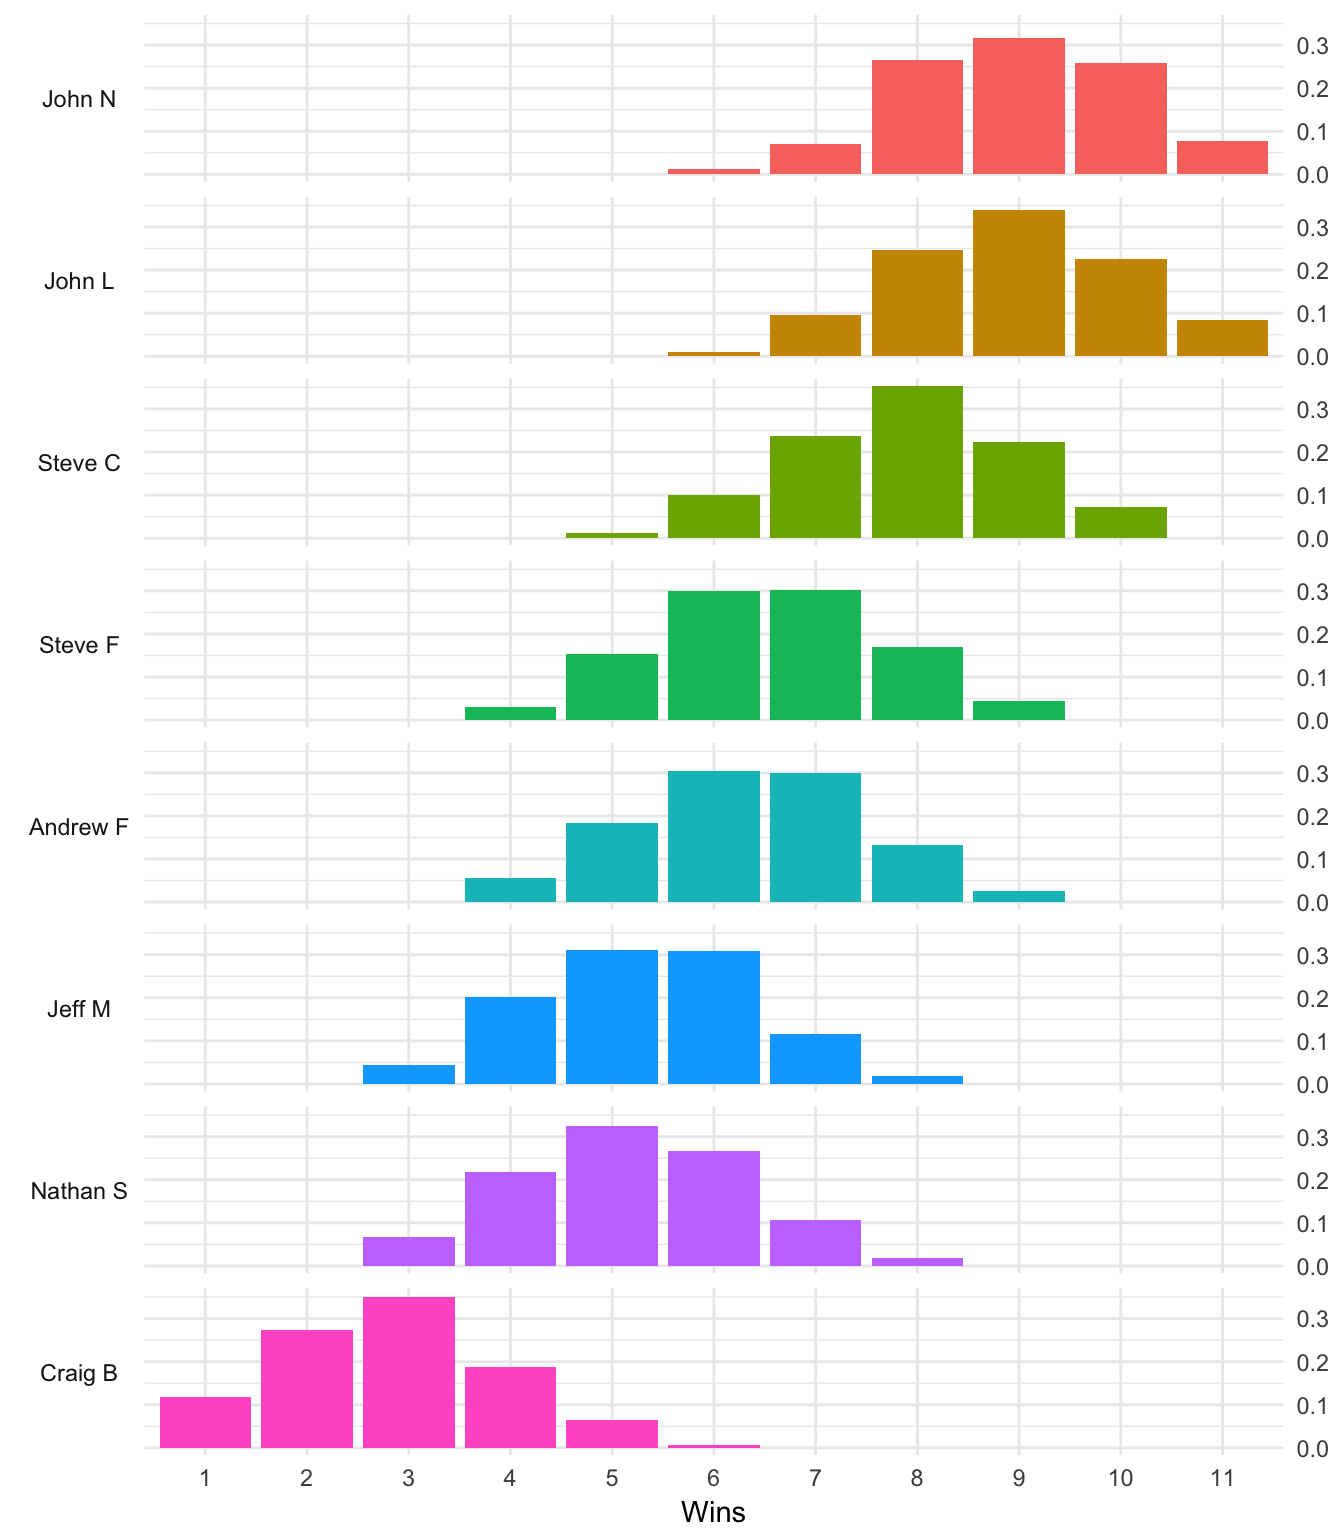
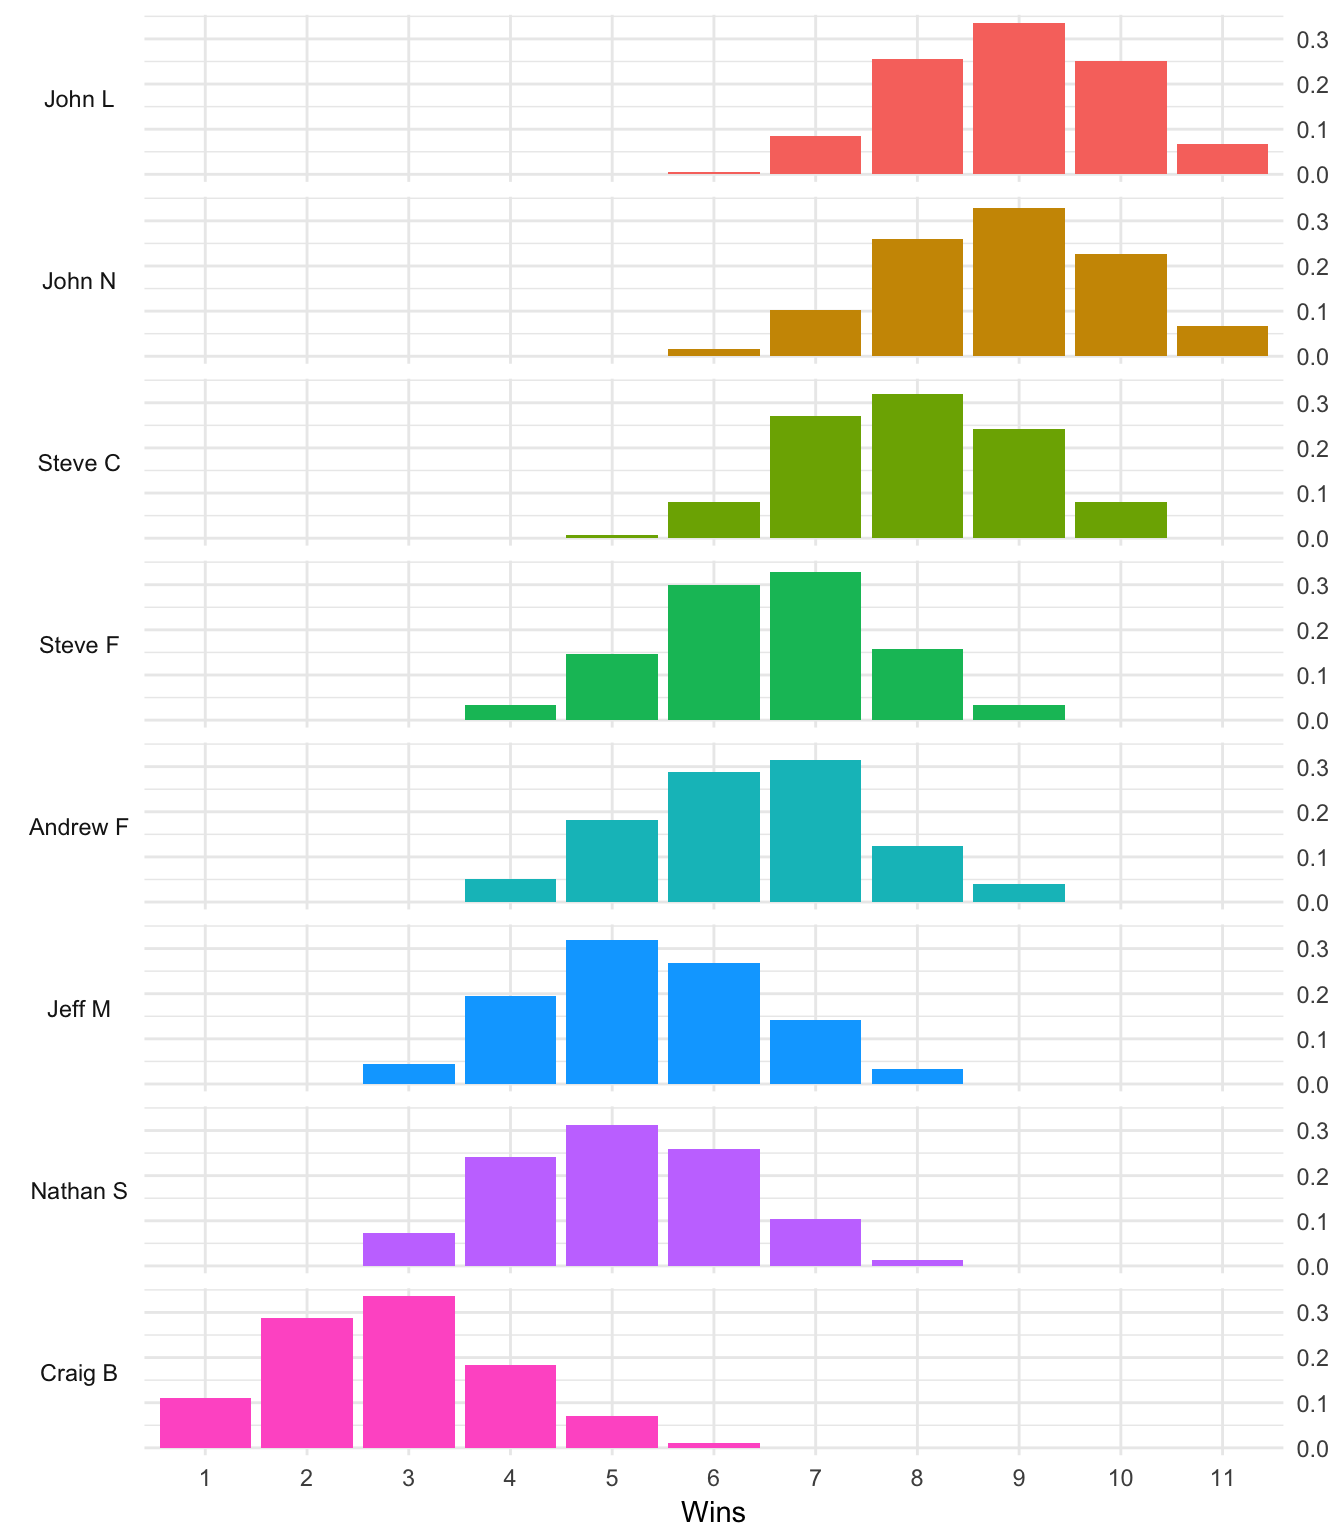
Fix week 8 image width

diff --git a/content/post/2017-10-31-fantasy-football-elo-ratings-week-8-update.html b/content/post/2017-10-31-fantasy-football-elo-ratings-week-8-update.html
@@ -6,13 +6,14 @@ slug: fantasy-football-elo-ratings-week-8-update
 categories: []
 tags: []
 ---
+
 <!-- BLOGDOWN-HEAD -->
 <!-- /BLOGDOWN-HEAD -->
 
 
 <div id="dashboard" class="section level2">
 <h2>Dashboard</h2>
-<p>Through 8 weeks, John N is our most likely regular season champion, with a 45.8% chance of taking home the title.</p>
+<p>Through 8 weeks, John N is our most likely regular season champion, with a 45.9% chance of taking home the title.</p>
 <table>
 <thead>
 <tr class="header">
@@ -30,39 +31,39 @@ tags: []
 <td align="center">1556</td>
 <td align="center">13</td>
 <td align="center">6</td>
-<td align="center">8.97</td>
-<td align="center">0.458</td>
+<td align="center">8.85</td>
+<td align="center">0.459</td>
 </tr>
 <tr class="even">
 <td align="center">Steve C</td>
 <td align="center">1555</td>
 <td align="center">12</td>
 <td align="center">5</td>
-<td align="center">7.89</td>
-<td align="center">0.212</td>
+<td align="center">7.95</td>
+<td align="center">0.219</td>
 </tr>
 <tr class="odd">
 <td align="center">John L</td>
 <td align="center">1542</td>
 <td align="center">16</td>
 <td align="center">6</td>
-<td align="center">8.93</td>
-<td align="center">0.326</td>
+<td align="center">8.95</td>
+<td align="center">0.307</td>
 </tr>
 <tr class="even">
 <td align="center">Steve F</td>
 <td align="center">1516</td>
 <td align="center">-12</td>
 <td align="center">4</td>
-<td align="center">6.56</td>
-<td align="center">0.003</td>
+<td align="center">6.53</td>
+<td align="center">0.007</td>
 </tr>
 <tr class="odd">
 <td align="center">Jeff M</td>
 <td align="center">1482</td>
 <td align="center">4</td>
 <td align="center">3</td>
-<td align="center">5.30</td>
+<td align="center">5.37</td>
 <td align="center">0.000</td>
 </tr>
 <tr class="even">
@@ -70,15 +71,15 @@ tags: []
 <td align="center">1478</td>
 <td align="center">-16</td>
 <td align="center">4</td>
-<td align="center">6.34</td>
-<td align="center">0.001</td>
+<td align="center">6.41</td>
+<td align="center">0.008</td>
 </tr>
 <tr class="odd">
 <td align="center">Nathan S</td>
 <td align="center">1460</td>
 <td align="center">-4</td>
 <td align="center">3</td>
-<td align="center">5.18</td>
+<td align="center">5.12</td>
 <td align="center">0.000</td>
 </tr>
 <tr class="even">
@@ -86,7 +87,7 @@ tags: []
 <td align="center">1411</td>
 <td align="center">-13</td>
 <td align="center">1</td>
-<td align="center">2.82</td>
+<td align="center">2.84</td>
 <td align="center">0.000</td>
 </tr>
 </tbody>
@@ -99,7 +100,7 @@ tags: []
 </div>
 <div id="how-the-odds-have-changed" class="section level2">
 <h2>How the Odds Have Changed</h2>
-<p><img src="/post/2017-10-31-fantasy-football-elo-ratings-week-8-update_files/figure-html/unnamed-chunk-7-1.png" width="960" style="display: block; margin: auto;" /></p>
+<p><img src="/post/2017-10-31-fantasy-football-elo-ratings-week-8-update_files/figure-html/unnamed-chunk-7-1.png" width="864" style="display: block; margin: auto;" /></p>
 </div>
 <div id="predictions-for-week-9" class="section level2">
 <h2>Predictions for Week 9</h2>

diff --git a/content/post/2015-12-22-solving-the-fivethirtyeight-puzzler-using-simulation.html b/content/post/2015-12-22-solving-the-fivethirtyeight-puzzler-using-simulation.html
@@ -29,7 +29,7 @@ tags: []
 }
 
 run_simulation(1e6)</code></pre>
-<pre><code>## [1] 9.001637</code></pre>
+<pre><code>## [1] 9.000549</code></pre>
 <p>Looks like the solution is 9 minutes. I submitted my answer, so we’ll see if I got it right!</p>
 <p><strong>Update 12/29/15</strong> - I got a shoutout for my correct submission! You can read the explanation of the full analytical solution <a href="https://fivethirtyeight.com/features/riddler-how-long-before-you-can-use-your-2015-calendar-again-riddler/">here</a>.</p>
 <center>
